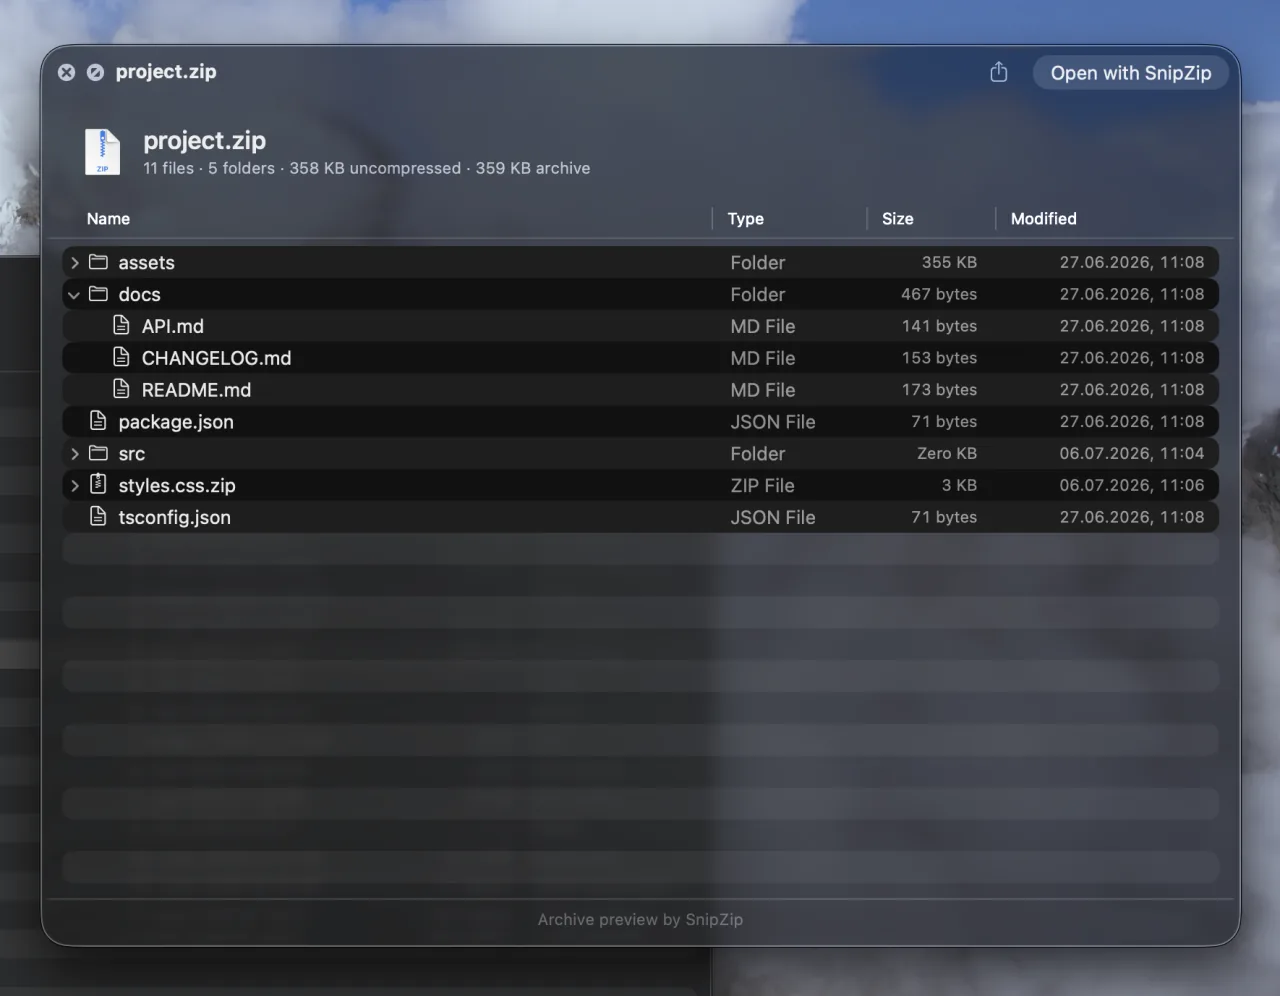
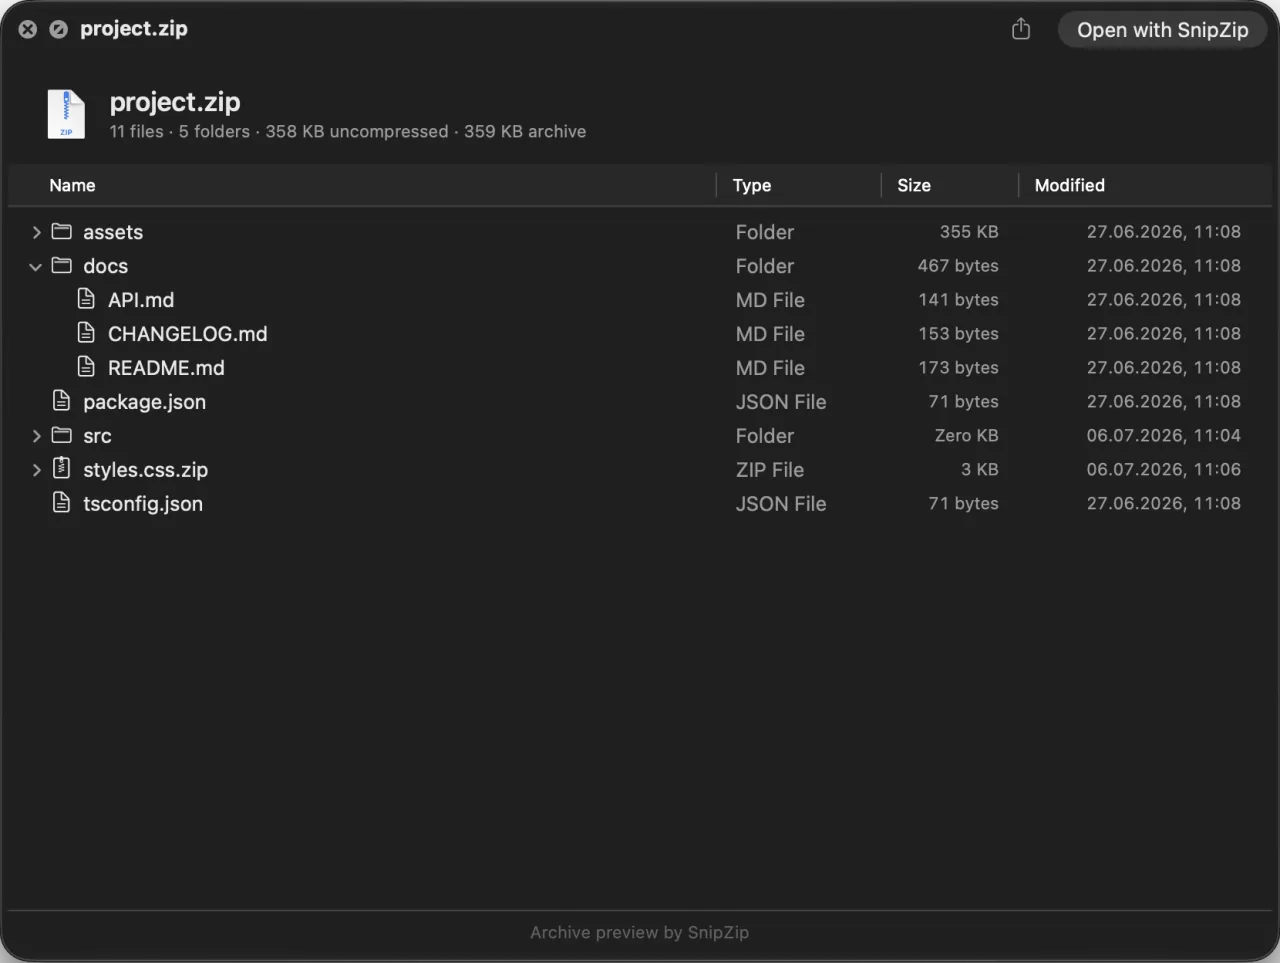
Add files via upload

diff --git a/docs/index.html b/docs/index.html
@@ -184,7 +184,7 @@
         <div class="quick-look-window">
           <picture>
             <source type="image/webp" srcset="assets/screenshots/quick-look-preview-640.webp 640w, assets/screenshots/quick-look-preview-960.webp 960w, assets/screenshots/quick-look-preview-1280.webp 1280w" sizes="(max-width: 980px) calc(100vw - 36px), 50vw" />
-            <img class="quick-look-screenshot" src="assets/screenshots/quickLook_preview2.png" width="1770" height="1376" loading="lazy" decoding="async" alt="Finder Quick Look preview showing the files and folders inside a ZIP archive" />
+            <img class="quick-look-screenshot" src="assets/screenshots/quick-look-preview.png" width="1660" height="1248" loading="lazy" decoding="async" alt="Finder Quick Look preview showing the files and folders inside a ZIP archive" />
           </picture>
         </div>
       </div>

diff --git a/docs/styles.css b/docs/styles.css
@@ -207,19 +207,13 @@ h1::first-line, h2::first-line { color: var(--text); }
 .quick-look-window {
   width: 100%;
   aspect-ratio: 1660 / 1248;
-  border-radius: 18px;
-  clip-path: inset(0 round 18px);
   box-shadow: 0 22px 55px rgba(0,0,0,.38);
-  isolation: isolate;
-  overflow: hidden;
 }
 .quick-look-window picture { height: 100%; }
 .screenshot-card .quick-look-window img.quick-look-screenshot {
-  width: 106.627%;
-  max-width: none;
-  max-height: none;
+  width: 100%;
   border-radius: 0;
-  transform: translate(-3.107%, -4.506%);
+  transform: none;
 }
 .screenshot-card img.workflow-screenshot {
   transform: translateY(2%) scale(1.12);
